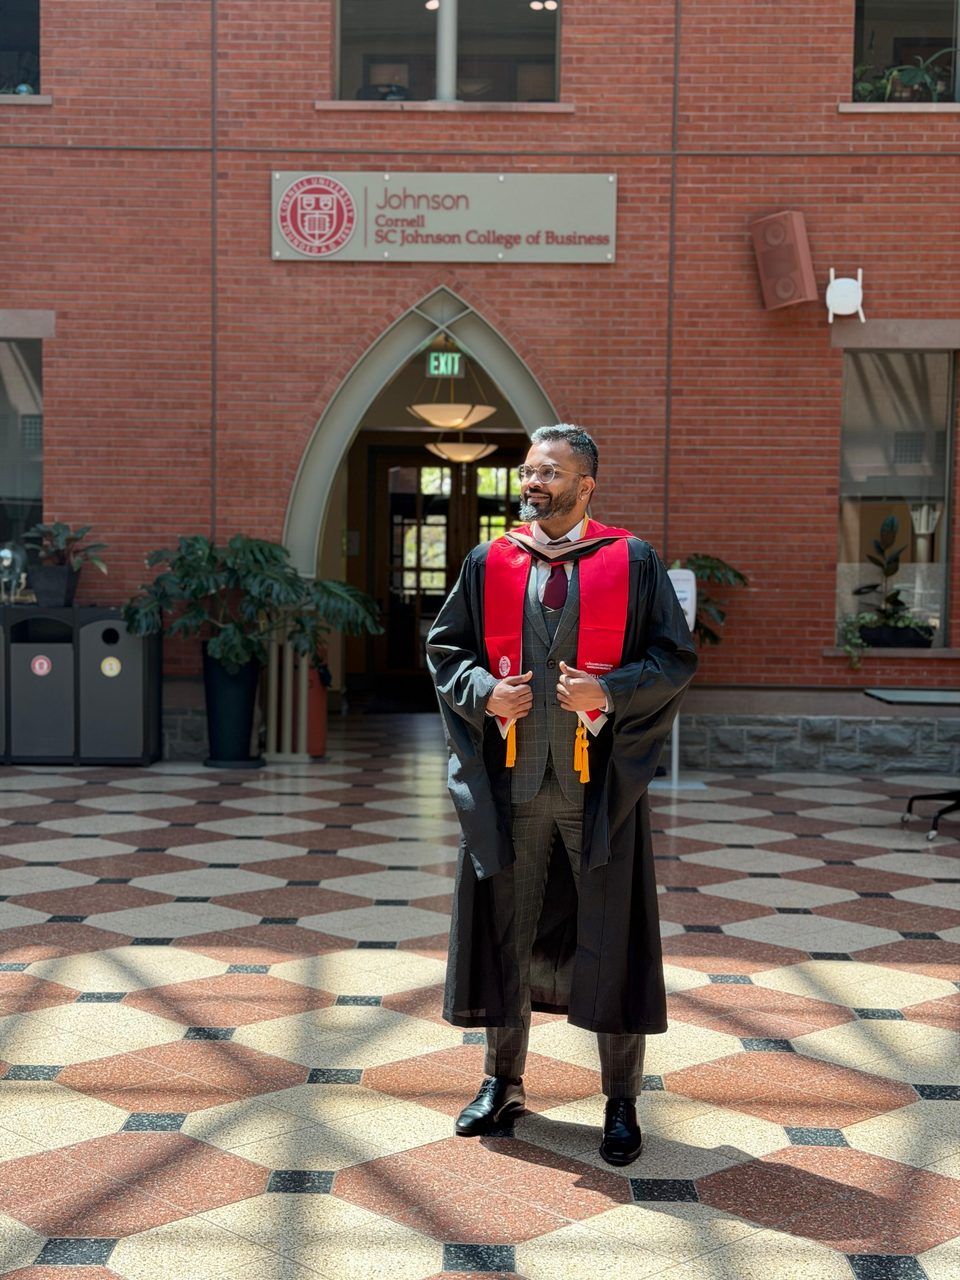
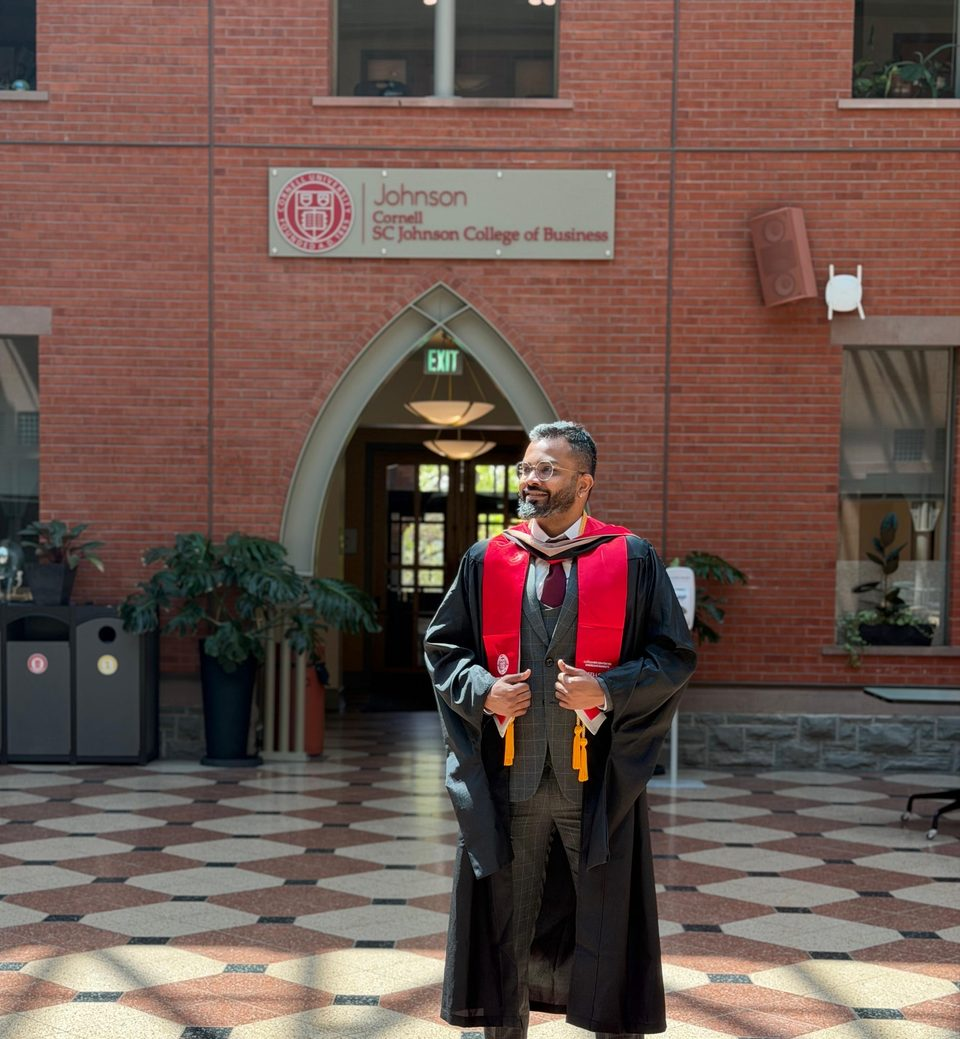
Use new pfp.jpeg: rebuild pfp.webp/pfp.jpg from it and top-align the portrait
Claude-Session: https://claude.ai/code/session_0116xTwuApvD8sts388G8jc7

diff --git a/index.html b/index.html
@@ -93,7 +93,7 @@ header.nav{position:sticky;top:env(safe-area-inset-top,0px);z-index:5;background
   linear-gradient(160deg,var(--surface-2),var(--surface));display:grid;place-items:center;position:relative;border-bottom:1px solid var(--line-strong)}
 .portrait{overflow:hidden}
 .portrait picture{position:absolute;inset:0}
-.portrait .pfp{width:100%;height:100%;object-fit:cover;object-position:50% 63%;display:block}
+.portrait .pfp{width:100%;height:100%;object-fit:cover;object-position:50% 0%;display:block}
 .portrait .mono{font-family:var(--font-display);font-size:5rem;color:var(--accent);font-style:italic;line-height:1}
 .portrait small{position:absolute;bottom:.75rem;left:1rem;font-family:var(--font-mono);font-size:.75rem;color:var(--muted);letter-spacing:.08em}
 .console-body{padding:1.1rem 1.1rem 1.2rem;display:grid;grid-template-columns:minmax(0,1fr);gap:.85rem;min-width:0}
@@ -296,7 +296,7 @@ section[id],#ask{scroll-margin-top:4.5rem}
 
       <aside class="console" id="ask" aria-label="Ask Sandip">
         <div class="portrait">
-          <picture><source srcset="pfp.webp" type="image/webp"><img src="pfp.jpeg" alt="Sandip Prakash" class="pfp" width="960" height="1280" decoding="async" onerror="this.closest('picture').hidden=true;this.closest('picture').nextElementSibling.hidden=false"></picture>
+          <picture><source srcset="pfp.webp" type="image/webp"><img src="pfp.jpeg" alt="Sandip Prakash" class="pfp" width="960" height="1039" decoding="async" onerror="this.closest('picture').hidden=true;this.closest('picture').nextElementSibling.hidden=false"></picture>
           <span class="mono" hidden>SP</span>
         </div>
         <div class="console-body">
